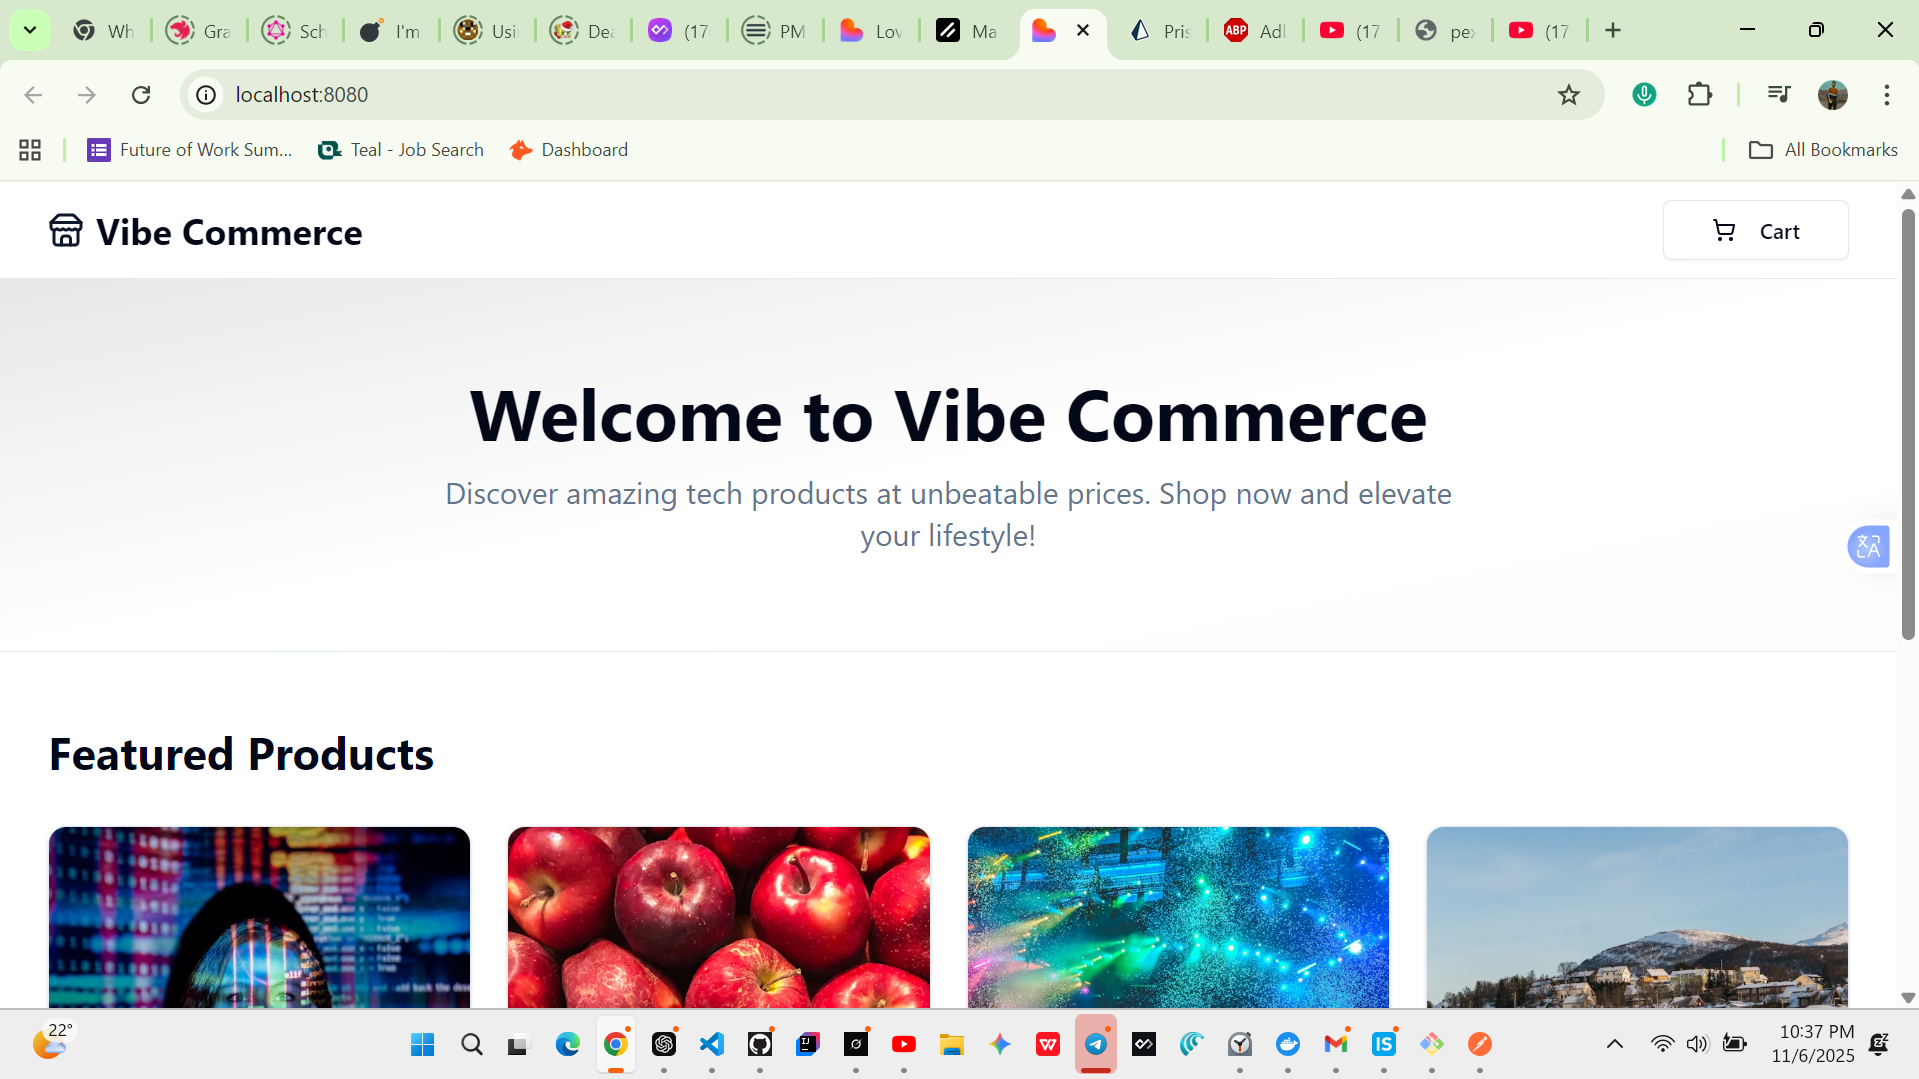
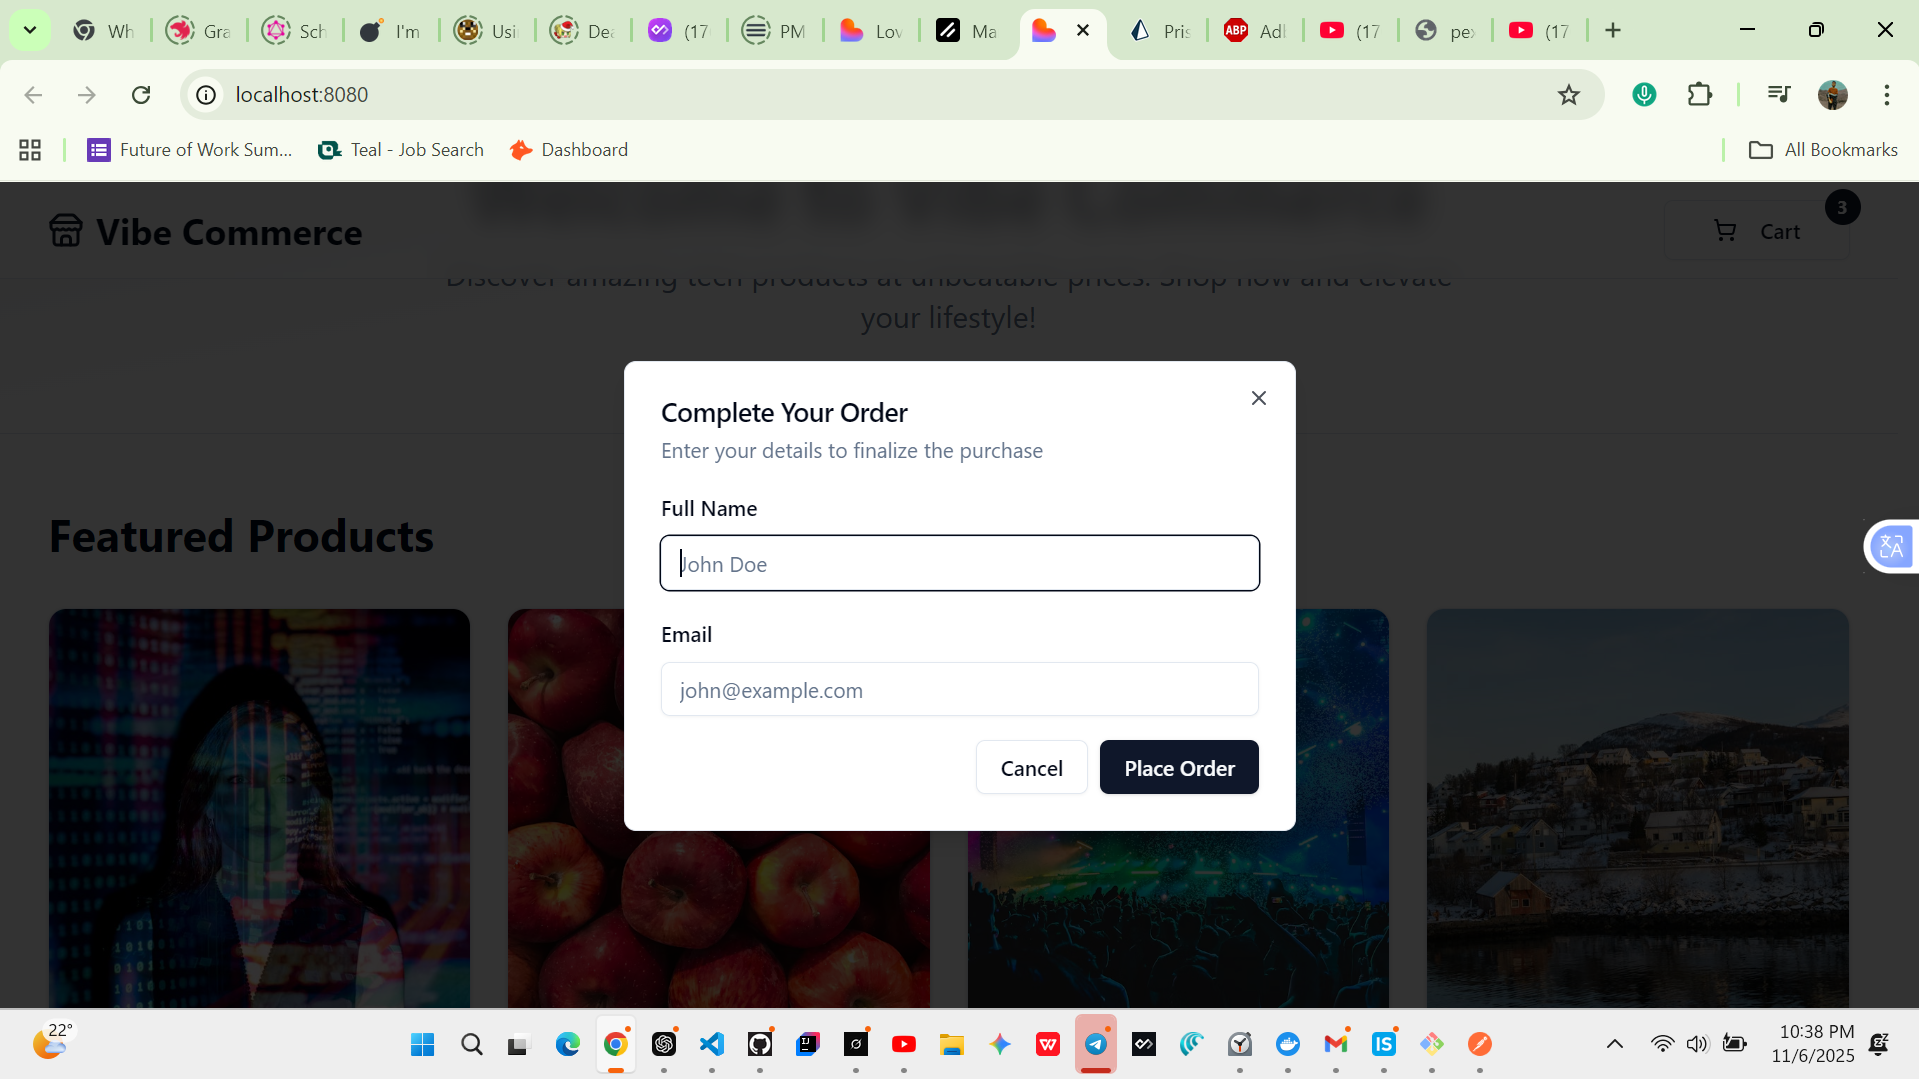
initial commit

diff --git a/README.md b/README.md
@@ -4,34 +4,62 @@ Vibe Commerce is a simple e-commerce web application built with **React**, **Typ
 
 ---
 
-## 📸 Screenshots
+## Screenshots
+
+<div align="center">
+  <div style="display: grid; grid-template-columns: repeat(auto-fit, minmax(280px, 1fr)); gap: 1.5rem; max-width: 1200px; margin: 2rem auto;">
+    
+    <!-- Home Page -->
+    <div style="background: white; border-radius: 16px; overflow: hidden; box-shadow: 0 10px 20px rgba(0,0,0,0.1); transition: all 0.3s; border: 1px solid #e5e7eb;">
+      <img src="./screenshots/home.png" alt="Home Page" style="width: 100%; height: 220px; object-fit: cover; object-position: top;">
+      <div style="padding: 1rem; background: linear-gradient(to right, #f3e8ff, #fce7f3);">
+        <strong style="color: #7c3aed;">Home</strong> – Product Listing
+      </div>
+    </div>
+
+    <!-- Cart -->
+    <div style="background: white; border-radius: 16px; overflow: hidden; box-shadow: 0 10px 20px rgba(0,0,0,0.1); transition: all 0.3s; border: 1px solid #e5e7eb;">
+      <img src="./screenshots/cart.png" alt="Cart Preview" style="width: 100%; height: 220px; object-fit: cover; object-position: top;">
+      <div style="padding: 1rem; background: linear-gradient(to right, #fce7f3, #fef3c7);">
+        <strong style="color: #ec4899;">Cart</strong> – Manage Items
+      </div>
+    </div>
+
+    <!-- Checkout Modal -->
+    <div style="background: white; border-radius: 16px; overflow: hidden; box-shadow: 0 10px 20px rgba(0,0,0,0.1); transition: all 0.3s; border: 1px solid #e5e7eb;">
+      <img src="./screenshots/checkout.png" alt="Checkout Modal" style="width: 100%; height: 220px; object-fit: cover; object-position: top;">
+      <div style="padding: 1rem; background: linear-gradient(to right, #d1fae5, #bbf7d0);">
+        <strong style="color: #16a34a;">Checkout</strong> – Payment Flow
+      </div>
+    </div>
+
+    <!-- Receipt Modal -->
+    <div style="background: white; border-radius: 16px; overflow: hidden; box-shadow: 0 10px 20px rgba(0,0,0,0.1); transition: all 0.3s; border: 1px solid #e5e7eb;">
+      <img src="./screenshots/checkout.png" alt="Receipt Summary" style="width: 100%; height: 220px; object-fit: cover; object-position: top;">
+      <div style="padding: 1rem; background: linear-gradient(to right, #ccfbff, #a5f3fc);">
+        <strong style="color: #0891b2;">Receipt</strong> – Order Summary
+      </div>
+    </div>
+
+  </div>
+</div>
 
 > Replace the placeholders with real files inside `/public/screens/`
 
-### 🏠 Home (Product Listing)
-
-![Home Page](./public/screens/home.png)
-
-### 🛍 Cart
-
-![Cart Preview](./screenshots/cart.png)
-
-### 💳 Checkout Modal
-
-![Checkout Modal](./screenshots/checkout.png)
-
-### ✅ Receipt Modal
-
-![Receipt Summary](./screenshots/checkout.png)
-
 ---
 
-## 🎥 Demo / Screen Recording
+## Demo / Screen Recording
 
-> Upload your recording to YouTube, Loom, or GitHub and link it here.
-
-**Video Demo:**  
-![Video](https://github.com/Eyob-smax/vibe-ecommerce/blob/main/screenshots/demo.mp4)
+<div align="center" style="margin: 2.5rem 0;">
+  <video controls style="max-width: 100%; border-radius: 16px; box-shadow: 0 15px 30px rgba(0,0,0,0.15); border: 1px solid #e5e7eb;" poster="./screenshots/home.png">
+    <source src="https://github.com/Eyob-smax/vibe-ecommerce/raw/main/screenshots/demo.mp4" type="video/mp4">
+    Your browser does not support the video tag.
+  </source>
+  </video>
+  <p style="margin-top: 0.75rem; color: #6b7280; font-size: 0.9rem;">
+    Full flow: browse → cart → checkout → receipt
+  </p>
+</div>
 
 ---
 
